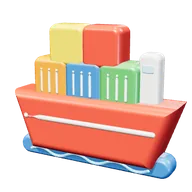
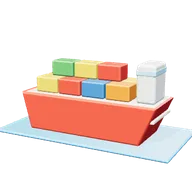
Símbolos modelados en 3D real (11 más): puente colgante, barco carguero, contenedor, micrófono, periódico, calculadora, recibo, lupa con huella, placa, gráfica de barras y gráfica de pastel

diff --git a/datos/simbolos3d/models.js b/datos/simbolos3d/models.js
@@ -38,6 +38,92 @@ const PU='#8E5BB5',TE='#2FA39A',OR='#F08A2E',PK='#F3A3B5',GL='#AEE0F2';const GY=
 
 const circ=(cx,cy,r,n,a0,a1)=>{a0=a0==null?0:a0;a1=a1==null?Math.PI*2:a1;const o=[];for(let i=0;i<n;i++){const a=a0+(a1-a0)*i/(n-(Math.abs(a1-a0-Math.PI*2)<1e-6?0:1));o.push([cx+Math.cos(a)*r,cy+Math.sin(a)*r])}return o};
 export const MODELS={
+  // Puente colgante: torres, cables, tirantes, tablero y agua
+  'civil.b'(K){
+    K.box(96,4,14,'#B23A2E',{p:[0,-6,0],rad:1});
+    [-26,26].forEach(x=>{K.box(6,60,4,RE,{p:[x,10,5]});K.box(6,60,4,RE,{p:[x,10,-5]});[30,14,-2].forEach(y=>K.box(6,3,10,RE,{p:[x,y,0]}))});
+    [5,-5].forEach(z=>{const c=[[-48,-4,z]];for(let i=0;i<=20;i++){const x=-26+i*2.6;c.push([x,38-28*Math.sin(Math.PI*i/20),z])}c.push([48,-4,z]);
+      K.tube([[-48,-4,z],[-26,38,z]],0.8,'#7A2A22',{nocap:true});K.tube(c.slice(1,-1),0.8,'#7A2A22',{nocap:true});K.tube([[26,38,z],[48,-4,z]],0.8,'#7A2A22',{nocap:true});
+      for(let i=1;i<20;i+=2){const x=-26+i*2.6,y=38-28*Math.sin(Math.PI*i/20);K.cyl(0.35,0.35,y+4,'#7A2A22',{p:[x,(y-4)/2,z]})}});
+    K.box(100,4,40,BL,{p:[0,-26,0],rad:2,m:'glass'});
+  },
+  // Barco carguero con contenedores de colores y puente de mando
+  'comext.a'(K){
+    K.ext('M-46 0 H46 L36 22 H-40 Z',30,RE,{bevel:2});
+    K.box(92,2,31,WH,{p:[0,0.5,0],rad:0.6});K.box(92,2,31.4,WH,{p:[0,-8,0],rad:0.6});
+    const C=[OR,BL,GR,YE,RE,BL];
+    for(let i=0;i<4;i++)for(let j=0;j<2;j++)K.box(16,10,12,C[(i+j*3)%6],{p:[-30+i*17,7,-7+j*14],rad:1});
+    for(let i=0;i<3;i++)K.box(16,10,12,C[(i+2)%6],{p:[-22+i*17,17.4,0],rad:1});
+    K.box(12,24,20,WH,{p:[38,13,0],rad:2});K.box(12.4,4,20.4,GL,{p:[38,20,0],rad:1});
+    K.box(120,2,60,'#5FB4E8',{p:[0,-24,0],rad:1});
+  },
+
+  // Contenedor de carga corrugado con puertas y cerrojos
+  'comext.b'(K){
+    K.box(84,40,36,OR,{rad:1.2});
+    for(let i=0;i<14;i++)[18.4,-18.4].forEach(z=>K.box(2.4,36,1,'#C9661E',{p:[-36+i*5.6,0,z],rad:0.4}));
+    K.box(1,36,32,'#C9661E',{p:[42.4,0,0],rad:0.4});
+    [-6,6].forEach(z=>K.cyl(0.9,0.9,34,ST,{m:'metal',p:[43,0,z]}));
+    [[42,20,18],[-42,20,18],[42,-20,18],[-42,-20,18],[42,20,-18],[-42,20,-18],[42,-20,-18],[-42,-20,-18]].forEach(p=>K.box(5,5,5,'#9A4A16',{p,rad:1}));
+  },
+  // Micrófono de estudio con rejilla, soporte y base
+  'comunicacion.a'(K){
+    K.cap(13,22,ST,{m:'metal',p:[0,16,0]});
+    for(let i=0;i<6;i++)K.tor(13.1,0.5,'#6B7884',{m:'metal',p:[0,6+i*5,0],r:[90,0,0]});
+    K.cyl(13.4,13.4,4,BK,{p:[0,6,0]});
+    K.tor(18,2,BK,{arc:180,r:[0,0,180],p:[0,4,0]});
+    K.cyl(2.4,2.4,30,BK,{p:[0,-28,0]});K.cyl(16,18,4,BK,{p:[0,-44,0]});
+  },
+  // Periódico doblado con titular, foto y columnas
+  'comunicacion.b'(K){
+    K.box(60,78,4,'#F4F2EC',{rad:1});K.box(58,76,1,'#E9E6DE',{p:[4,-2,-2.6],rad:1});
+    [2.2,-2.2].forEach(z=>{const g=K.group({p:[0,0,z],r:[0,z<0?180:0,0]});
+      K.box(50,5,0.6,'#2B3540',{p:[0,30,0],rad:0.4,parent:g});K.box(22,16,0.6,'#A9B6C2',{p:[-12,12,0],rad:0.4,parent:g});
+      for(let i=0;i<4;i++)K.box(20,1.4,0.6,'#8A939C',{p:[14,18-i*4,0],rad:0.3,parent:g});
+      for(let i=0;i<7;i++)K.box(50,1.4,0.6,'#8A939C',{p:[0,-4-i*4.6,0],rad:0.3,parent:g})});
+  },
+  // Calculadora: pantalla con números, teclado de 20 teclas
+  'contaduria.a'(K){
+    K.box(54,80,10,'#4A5560',{rad:5});K.box(44,18,1,'#BFD8B0',{p:[0,24,5.2],rad:1.4});
+    const t=K.group({p:[6,24,5.9]});[[-10,'M'],[-2,'M'],[6,'M']].forEach(([x])=>{});
+    [-12,-4,4].forEach((x,i)=>{K.box(5,9,0.4,'#2F4A2F',{p:[x+8,24,5.9],rad:0.3})});
+    for(let r=0;r<5;r++)for(let c=0;c<4;c++)K.box(9,7,3,c==3?(r==4?OR:'#9AA3AC'):WH,{p:[-15+c*10,8-r*9.5,5.4],rad:1.6});
+  },
+  // Recibo con borde dentado y renglones
+  'contaduria.b'(K){
+    const zig=[];for(let i=0;i<=10;i++)zig.push([-26+i*5.2,i%2?-44:-40]);
+    K.shape([[-26,44],[26,44],...zig.reverse()],null,2,WH,{bevel:0.6});
+    [1.4,-1.4].forEach(z=>{[30,22,14,6].forEach((y,i)=>K.box(i==3?24:40,1.6,0.4,'#9AA3AC',{p:[i==3?-8:0,y,z],rad:0.4}));K.box(40,2,0.4,GR,{p:[0,-14,z],rad:0.5});K.box(20,1.6,0.4,'#3A4048',{p:[10,-24,z],rad:0.4})});
+  },
+  // Lupa con huella digital en el lente
+  'criminologia.a'(K){
+    K.tor(26,4.4,'#3A4048',{});K.cyl(26,26,2,GL,{m:'glass',r:[90,0,0]});
+    const g=K.group({p:[0,0,1.4]});
+    for(let i=0;i<6;i++)K.tor(4+i*3,0.5,NA,{arc:220,r:[0,0,-20],parent:g});
+    K.tube([[18,-18,0],[24,-24,0]],4,ST,{m:'metal'});K.tube([[24,-24,0],[46,-46,0]],5,'#2B3540',{});
+  },
+  // Placa de policía: escudo con estrella dorada
+  'criminologia.b'(K){
+    K.ext('M0 -46 C10 -40 24 -40 34 -42 C36 -10 30 22 0 46 C-30 22 -36 -10 -34 -42 C-24 -40 -10 -40 0 -46 Z',10,ST,{m:'metal',bevel:2.4});
+    [6.6,-6.6].forEach(z=>{K.ext('M0 -34 C8 -30 16 -30 24 -32 C24 -8 20 14 0 32 C-20 14 -24 -8 -24 -32 C-16 -30 -8 -30 0 -34 Z',1,'#2C5E91',{bevel:0.6,p:[0,0,z]});
+      K.cyl(12,12,1.6,GO,{m:'gold',p:[0,-4,z*1.2],r:[90,0,0]});K.ext('M0 -9 L2.6 -3 L9 -2.8 L4 1.4 L5.6 8 L0 4.4 L-5.6 8 L-4 1.4 L-9 -2.8 L-2.6 -3 Z',1,'#B8861C',{m:'gold',bevel:0.4,p:[0,-4,z*1.32]})});
+  },
+  // Gráfica de barras con lupa
+  'datos.a'(K){
+    [[-26,20,BL],[-8,36,TE],[10,26,OR]].forEach(([x,h,c])=>K.box(14,h,14,c,{p:[x,-30+h/2,0],rad:2}));
+    K.box(60,2,22,'#D5DCE2',{p:[-8,-31,0],rad:0.8});
+    K.tor(13,3,'#2B3540',{p:[18,18,10]});K.cyl(13,13,1.6,GL,{m:'glass',p:[18,18,10],r:[90,0,0]});K.tube([[27,9,10],[40,-4,10]],3.4,'#2B3540',{});
+  },
+  // Gráfica de pastel con una rebanada levantada
+  'datos.b'(K){
+    const g=K.group({r:[-30,0,0]});
+    const sec=(a0,a1,r)=>{const o=[[0,0]];for(let i=0;i<=32;i++){const a=a0+(a1-a0)*i/32;o.push([Math.cos(a)*r,Math.sin(a)*r])}return o};
+    K.shape(sec(Math.PI*0.5,Math.PI*1.6,36),null,12,BL,{bevel:1.4,parent:g});
+    K.shape(sec(Math.PI*1.6,Math.PI*2.25,36),null,12,TE,{bevel:1.4,parent:g});
+    const mid=Math.PI*0.25;K.shape(sec(0,Math.PI*0.5,36).map(p=>p),null,12,YE,{bevel:1.4,parent:g,p:[Math.cos(mid)*8,Math.sin(mid)*8,6]});
+  },
+
+
   // Dado con puntos en las seis caras
   'actuaria.a'(K){
     K.box(56,56,56,WH,{rad:9});
